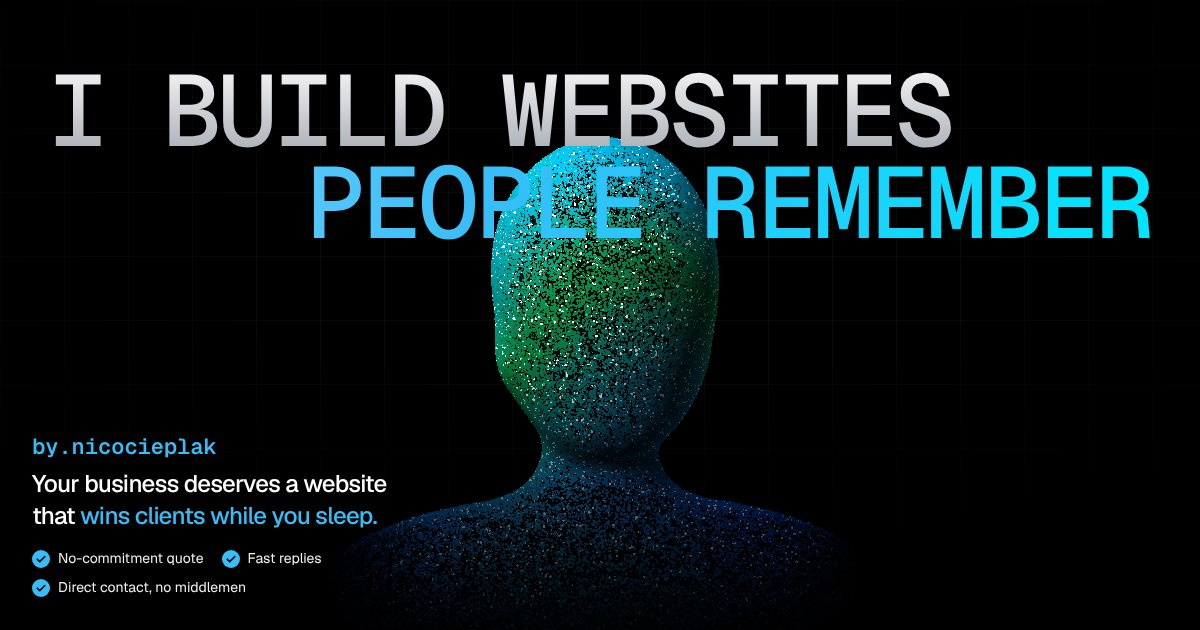
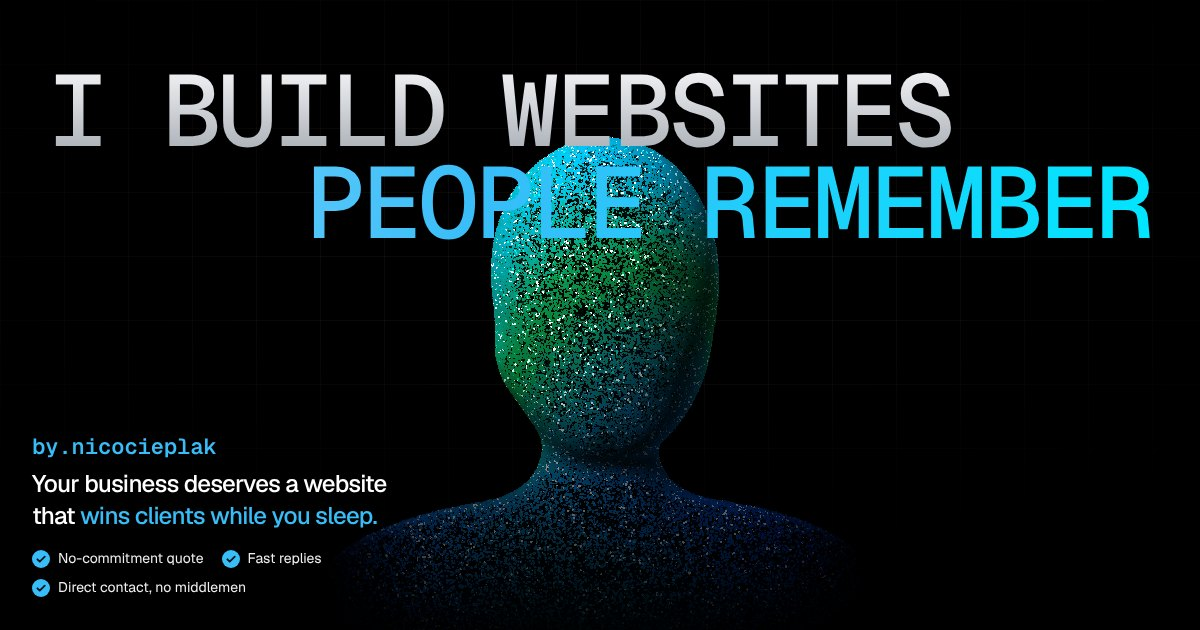
Hero: 'Diseños webs que no se olvidan'
Claude-Session: https://claude.ai/code/session_011yTnAsiWisoWJcwCUyj1u5

Changed region(s): [[0.3392, 0.2111, 0.6475, 0.9048]]

diff --git a/index.html b/index.html
@@ -15,7 +15,7 @@
   <meta property="og:locale" content="es_AR">
   <meta property="og:locale:alternate" content="en_US">
   <meta property="og:url" content="https://artesanal.dev/">
-  <meta property="og:title" content="Diseño webs que no se olvidan — by.nicocieplak">
+  <meta property="og:title" content="Diseños webs que no se olvidan — by.nicocieplak">
   <meta property="og:description" content="Sitios web veloces, diseño exclusivo y conexión directa a WhatsApp para tu negocio.">
   <meta property="og:image" content="https://artesanal.dev/assets/images/og-image.jpg">
   <meta property="og:image:width" content="1200">
@@ -28,8 +28,8 @@
   <link rel="preload" href="assets/fonts/geist-mono-500.woff2" as="font" type="font/woff2" crossorigin>
 
   <!-- Tailwind compilado (npm run build) + estilos propios -->
-  <link rel="stylesheet" href="assets/css/tailwind.css?v=20261105g">
-  <link rel="stylesheet" href="assets/css/styles.css?v=20261105g">
+  <link rel="stylesheet" href="assets/css/tailwind.css?v=20261105h">
+  <link rel="stylesheet" href="assets/css/styles.css?v=20261105h">
 
   <script type="application/ld+json">
   {
@@ -124,7 +124,7 @@
       <div class="hero-grid" aria-hidden="true"></div>
       <div class="hero-glow" aria-hidden="true"></div>
 
-      <h1 id="hero-title" class="hero-title" data-i18n-html="hero.title"><span class="hero-line hero-line--1">Diseño webs que</span> <span class="hero-line hero-line--2">no se olvidan</span></h1>
+      <h1 id="hero-title" class="hero-title" data-i18n-html="hero.title"><span class="hero-line hero-line--1">Diseños webs que</span> <span class="hero-line hero-line--2">no se olvidan</span></h1>
 
       <!-- Acá se monta el canvas (assets/js/hero-head.min.js) -->
       <div id="hero-head" class="hero-head" aria-hidden="true"></div>
@@ -606,7 +606,7 @@
     <span class="wa-float-dot" aria-hidden="true"></span>
   </a>
 
-  <script src="assets/js/i18n.js?v=20261105g" defer></script>
-  <script src="assets/js/main.js?v=20261105g" defer></script>
+  <script src="assets/js/i18n.js?v=20261105h" defer></script>
+  <script src="assets/js/main.js?v=20261105h" defer></script>
 </body>
 </html>

diff --git a/assets/js/main.js b/assets/js/main.js
@@ -12,7 +12,7 @@ const CONFIG = {
 // Cambiá este valor cada vez que subas cambios: obliga al navegador a bajar
 // la versión nueva de la cabeza 3D en lugar de usar la que tiene guardada.
 // (Usá el mismo valor en los ?v= de index.html)
-const ASSET_VERSION = '20261105g';
+const ASSET_VERSION = '20261105h';
 
 const prefersReducedMotion = window.matchMedia('(prefers-reduced-motion: reduce)').matches;
 const I18N = window.I18N || { en: {}, ui: { es: {}, en: {} }, whatsapp: { es: null, en: null } };
